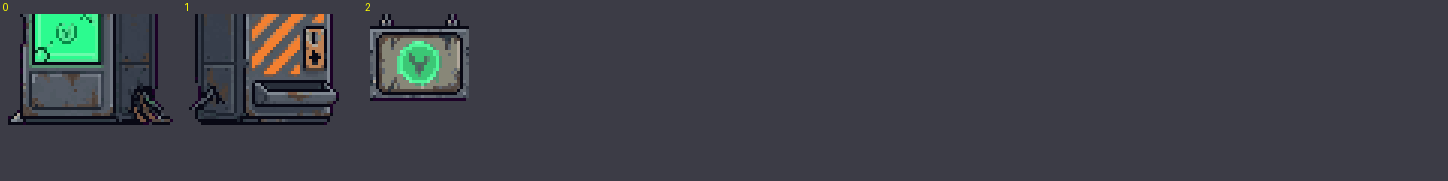
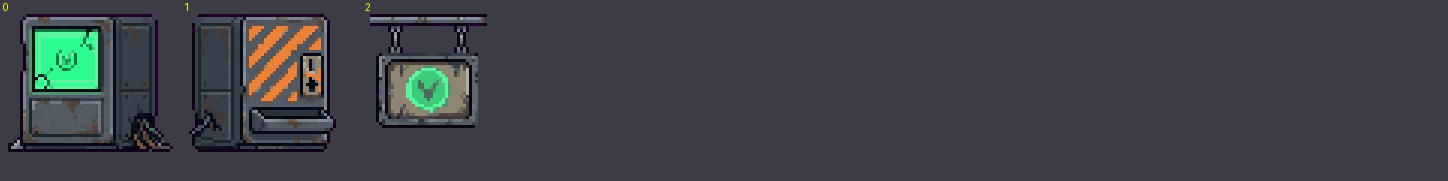
Shop props: cut the band higher so the terminal, dispenser and sign are whole
They stick out above their cell on the Gemini sheet; the band now starts at
row 2.72 (split_rows takes a fractional start row).

Claude-Session: https://claude.ai/code/session_01P1JT62YrUDxCJ5636Q9yMG

Changed region(s): [[0.0, 0.0552, 0.3419, 0.8564]]

diff --git a/tools/split_rows.py b/tools/split_rows.py
@@ -3,7 +3,9 @@
 pieces wider than one cell (e.g. coins on top, a two-cell terminal below).
 
 Usage: python3 -I tools/split_rows.py SHEET OUT_DIR ROWS NAME:FROM:TO [...]
-  ROWS is the sheet's row count; each band keeps rows FROM..TO (0-based, inclusive).
+  ROWS is the sheet's row count; each band keeps rows FROM..TO (0-based,
+  inclusive). FROM may be fractional (e.g. 2.75) for pieces that stick out
+  above their cell.
 """
 import sys
 from pathlib import Path
@@ -16,5 +18,5 @@ h = img.height / rows
 out_dir.mkdir(parents=True, exist_ok=True)
 for spec in sys.argv[4:]:
     name, a, b = spec.split(':')
-    img.crop((0, round(int(a) * h), img.width, round((int(b) + 1) * h))).save(out_dir / f'{name}.png')
-    print(name, int(a), int(b))
+    img.crop((0, round(float(a) * h), img.width, round((int(b) + 1) * h))).save(out_dir / f'{name}.png')
+    print(name, a, b)
